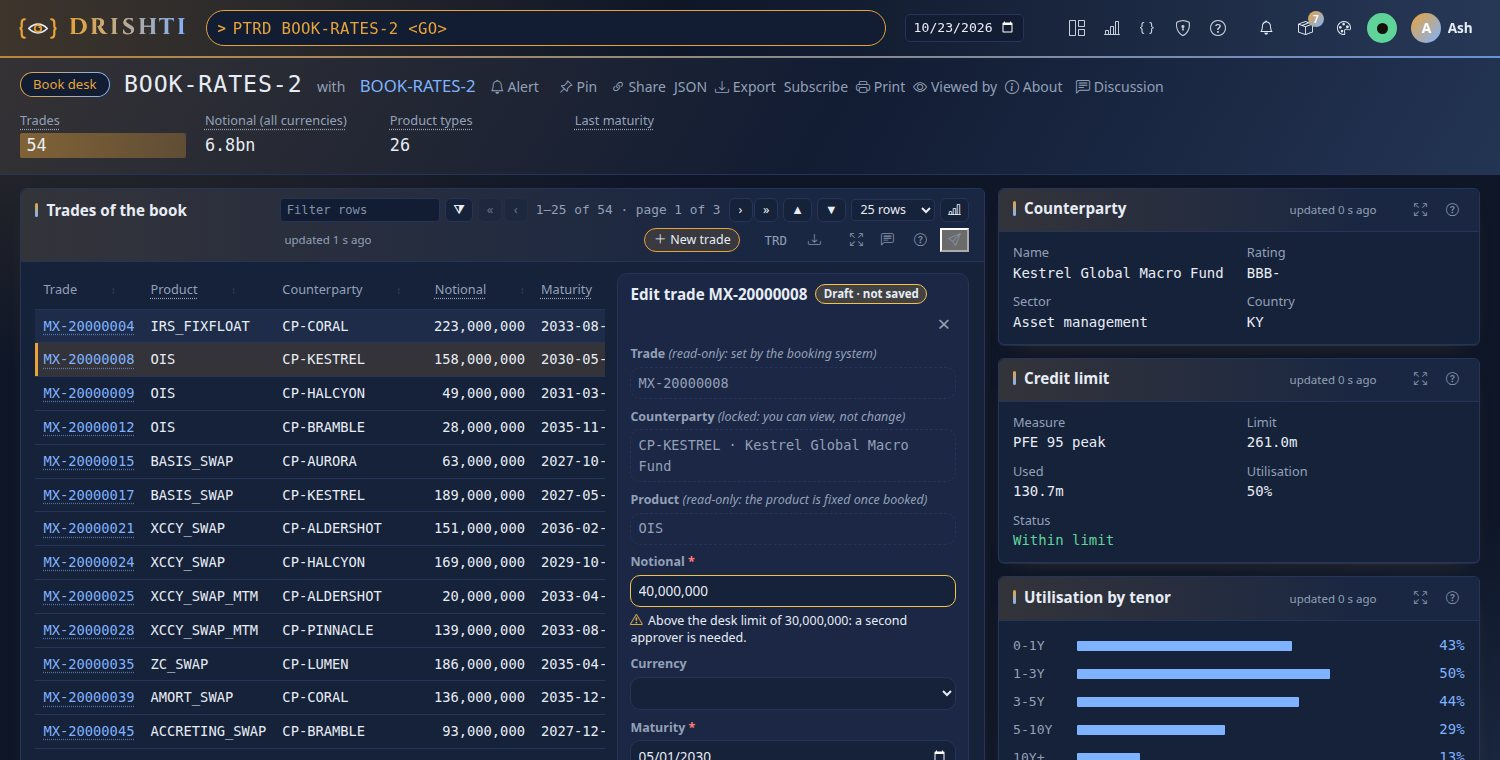
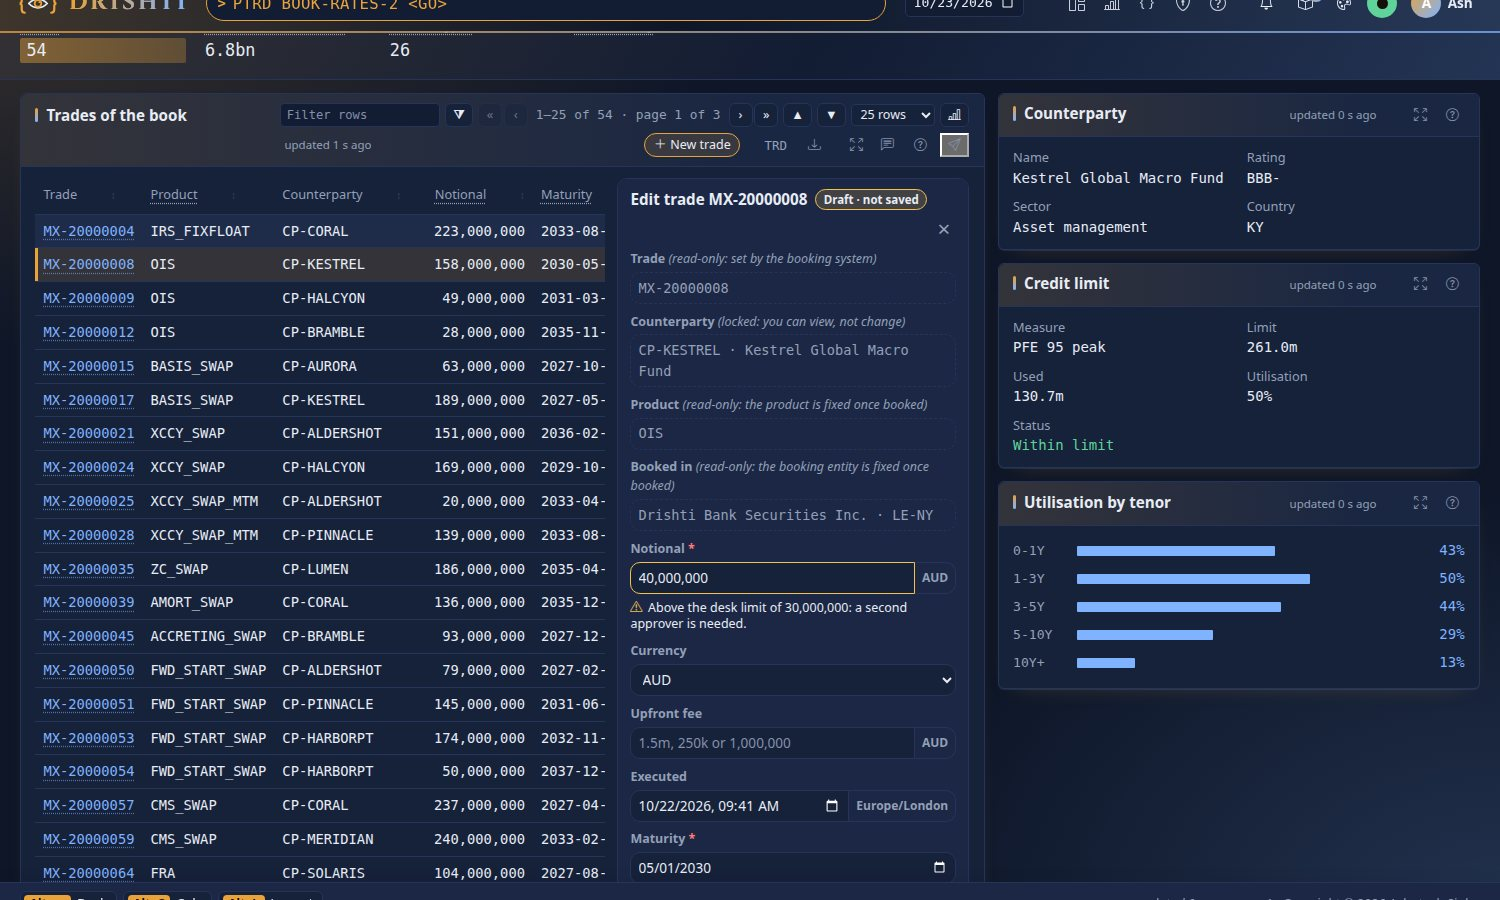
Forms, the richer fields in the browser and the docs: a money value that does not read (lots) leaves the rules undecided as on the server; the book desk's currencies include AUD; the form beside a table sticks below the top bar and scrolls on its own when taller than the screen (static on a phone); 

diff --git a/drishti-console/web/static/css/record-forms.css b/drishti-console/web/static/css/record-forms.css
@@ -19,7 +19,7 @@
 .fm-rows tbody > tr[data-frow] { cursor: pointer; }
 .fm-beside-open .pnl-b { display: grid; grid-template-columns: minmax(0, 1fr) minmax(17rem, 22rem); gap: .75rem; align-items: start; }
 .fm-beside-open .pnl-b > .fm-drafts { grid-column: 1 / -1; }
-.fm-side { position: sticky; top: .5rem; border: 1px solid var(--d-border); border-radius: var(--d-radius, 6px); background: var(--d-surface-2); padding: .6rem .75rem;
+.fm-side { position: sticky; top: 4.5rem; max-height: calc(100vh - 5rem); overflow-y: auto; border: 1px solid var(--d-border); border-radius: var(--d-radius, 6px); background: var(--d-surface-2); padding: .6rem .75rem;
   display: flex; flex-direction: column; gap: .5rem; }
 .fm-head { display: flex; align-items: center; gap: .5rem; flex-wrap: wrap; }
 .fm-head h4 { margin: 0; font-size: .95rem; font-weight: 650; color: var(--d-ink); }
@@ -117,6 +117,7 @@ td .fm-adorn .fm-in { width: auto; flex: 1; }
 .fm-auto { margin: 0; font-size: .72rem; color: var(--d-muted); }
 @media (max-width: 700px) {
   .fm-beside-open .pnl-b { grid-template-columns: minmax(0, 1fr); }
+  .fm-side { position: static; max-height: none; }
   .fm-in, .fm-new, .fm-btn { min-height: 2.5rem; }
   .fm-drawer { width: 100vw; }
   .fm-note { margin-left: 0; flex-basis: 100%; }

diff --git a/drishti-console/web/static/js/form-expr.js b/drishti-console/web/static/js/form-expr.js
@@ -195,7 +195,7 @@
     (form.fields || []).forEach(function (f) {
       var v = values[f.id], blank = empty(v) || (typeof v === 'string' && !v.trim());
       var t = blank ? null : typed(f, v);
-      vals[f.id] = t;
+      vals[f.id] = typeof t === 'number' && isNaN(t) ? null : t;           // a value that does not read: the rules cannot tell, as on the server
       if (!checked[f.id]) { return; }
       if (blank) { if (f.required) { out.push({ field: f.id, message: f.label + ' is required', severity: 'error' }); } return; }
       var why = valueProblem(f, v, t);

diff --git a/tools/docs/shots/designer.py b/tools/docs/shots/designer.py
@@ -522,9 +522,11 @@ def form_beside(c: Ctx):
     c.page.locator("#p-trades tbody tr[data-frow='1'] td").nth(1).click()
     c.page.fill("[data-fm-side] [data-field='notional']", "40,000,000")
     c.page.fill("[data-fm-side] [data-field='comment']", "Client hedge for the Q4 roll")
+    c.page.fill("[data-fm-side] [data-field='executed_at']", "2026-10-22T09:41")
     c.page.evaluate("document.querySelectorAll('#p-trades tr.wire-kids').forEach(n => n.remove());"
-                    "document.querySelector('#p-trades').scrollIntoView({ block: 'start' }); window.scrollBy(0, -70)")
-    c.save("form-beside.jpg", clip={"x": 0, "y": 0, "width": 1500, "height": 760})
+                    "document.querySelector('#p-trades').scrollIntoView({ block: 'start' }); window.scrollBy(0, -70);"
+                    "document.activeElement.blur(); document.querySelector('[data-fm-side]').scrollTop = 0")
+    c.save("form-beside.jpg", clip={"x": 0, "y": 0, "width": 1500, "height": 900})
 
 
 @shot("form-cells.jpg")
@@ -656,6 +658,7 @@ def outline(c: Ctx):
 def grid_mode(c: Ctx):
     c.page.goto(c.base + "/designer/grid?kind=portfolio-trades&id=BOOK-RATES-2")
     c.until("document.querySelector('[data-gd-rev]')")
-    c.page.locator('[data-gd-cell="A4"]').click()
+    kid = c.page.locator("[data-gd-kid]")                 # a panel a click opens, as a cell of its own, when the screen has one
+    (kid.first if kid.count() else c.page.locator('[data-gd-cell="A4"]')).click()
     c.save("grid-mode.jpg")
     c.page.locator("[data-gd-cancel]").click()

diff --git a/drishti-console/tests/test_record_forms_browser.py b/drishti-console/tests/test_record_forms_browser.py
@@ -91,11 +91,12 @@ def test_a_form_beside_the_table_with_words_a_draft_and_resuming_it(stack, brows
     assert pg.evaluate("drishtiForms.state().trades.dirty")
     pg.fill("[data-fm-side] [data-field='comment']", "Client hedge for the Q4 roll")
     assert side.locator(".fm-error").count() == 0 and warn.count() == 1
+    pg.fill("[data-fm-side] [data-field='executed_at']", "2026-10-22T09:41")      # a date and time, in its time zone
     IMG.mkdir(parents=True, exist_ok=True)
     wait(pg, "document.querySelector('#p-trades tr.wire-kids')")
     pg.evaluate("document.querySelectorAll('#p-trades tr.wire-kids').forEach(n => n.remove())")   # the cash flows the click opened: not in the picture
-    pg.evaluate("document.querySelector('#p-trades').scrollIntoView({ block: 'start' }); window.scrollBy(0, -70)")
-    pg.screenshot(path=str(IMG / "form-beside.jpg"), type="jpeg", quality=84, clip={"x": 0, "y": 0, "width": 1500, "height": 760})
+    pg.evaluate("document.querySelector('#p-trades').scrollIntoView({ block: 'start' }); window.scrollBy(0, -70); document.activeElement.blur(); document.querySelector('[data-fm-side]').scrollTop = 0")
+    pg.screenshot(path=str(IMG / "form-beside.jpg"), type="jpeg", quality=84, clip={"x": 0, "y": 0, "width": 1500, "height": 900})
     pg.click("[data-fm-side] .fm-save")
     wait(pg, "document.querySelector('[data-fm-side] .fm-badge-saved')")
     assert pg.locator("[data-fm-drafts]").inner_text().count("draft") >= 1

diff --git a/docs/guides/SUTRA_FORMS_GUIDE.md b/docs/guides/SUTRA_FORMS_GUIDE.md
@@ -47,7 +47,7 @@ panels:
       fields:
         - { id: trade_id, label: Trade, bind: TRADE_ID, readonly: true, reason: "set by the booking system", new: false }
         - { id: counterparty, label: Counterparty, bind: COUNTERPARTY, type: lookup, readonly: true, required: true, options: { ... } }
-        - { id: notional, label: Notional, bind: NOTIONAL, type: number, min: 0, required: true, fmt: amount0 }
+        - { id: notional, label: Notional, bind: NOTIONAL, type: money, currency: currency, min: 0, required: true, fmt: amount0 }
         - { id: maturity_date, label: Maturity, bind: MATURITY_DATE, type: date, min: today, required: true }
         - { id: trade_status, label: Status, bind: TRADE_STATUS, type: enum, options: [PENDING, VALIDATED, AMENDED], editable-by: [middle-office] }
         - { id: comment, label: Comment, bind: COMMENT, type: textarea, max-length: 500, placeholder: Reason for the change }
@@ -60,7 +60,7 @@ panels:
 
 What people see:
 
-- **Typed fields.** A number takes `40,000,000`, `40m` or `1.5bn`; a date opens the date picker; an enum is a list; a lookup is a
+- **Typed fields.** A number or an amount of money takes `40,000,000`, `40m` or `1.5bn`; a date opens the date picker; an enum is a list; a lookup is a
   list of what its source offers; `textarea` is several lines.
 - **Locked fields say why.** `readonly: true` shows the value with "(read-only: set by the booking system)", or "(locked: you can
   view, not change)" when there is no `reason`. A field whose `editable-by` names roles the person does not hold is locked the same
@@ -69,6 +69,40 @@ What people see:
   said and kept with it, for example "Above the desk limit of 30,000,000: a second approver is needed."
 - **Draft · not saved** while there are changes; **Save draft** keeps them; **Discard** throws them away (and the saved draft too).
 - Leaving the page with changes not saved asks first. A panel being edited is not refreshed under the person's hands.
+
+### Money, a date and time, a linked record, a worked-out default
+
+The same form has four fields of the richer kinds (the book desk, `book-desk.v1.sutra.yaml`):
+
+```yaml
+        - id: legal_entity
+          label: Booked in
+          bind: LEGAL_ENTITY
+          type: entity                        # a linked record of another pack's kind
+          readonly: true
+          reason: "the booking entity is fixed once booked"
+          step: who
+          options: { source: { pack: core, kind: legal-entity }, label: NAME }
+        - { id: notional, label: Notional, bind: NOTIONAL, type: money, currency: currency, min: 0, required: true, fmt: amount0 }
+        - { id: currency, label: Currency, bind: CURRENCY, type: enum, options: [USD, EUR, GBP, JPY, CHF, CAD, AUD] }
+        - { id: upfront_fee, label: Upfront fee, bind: UPFRONT_FEE, type: money, currency: currency, min: 0, default: "=notional * 0.001" }
+        - { id: executed_at, label: Executed, bind: EXECUTED_AT, type: datetime, tz: Europe/London }
+```
+
+- **`money`** is an amount and its currency. People type `1.5m`, `250k`, `2bn` or `1,000,000`; it shows grouped (`1,500,000`) once
+  they leave the field. The currency sits beside it: fixed (`currency: USD`) or the one another field holds (`currency: currency`,
+  which changes as people pick a currency). `min` and `max` are numbers. A value that does not read says *Notional is an amount
+  (1,000,000, 1.5m or 250k)*.
+- **`datetime`** is a date and a time (`2026-10-23T14:05`), entered with the browser's date and time picker; the time zone (`tz`,
+  UTC when absent) is shown beside it and with the value (*2026-10-23 14:05 Europe/London*). `min` and `max` are a date and time or
+  `today`.
+- **`entity`** links the record to a record of any pack's kind: a search box over the records of `options.source` (a `where` or a
+  `search` narrows them), read as the viewer may see them. Type part of a name or an id, pick with the arrows and Enter (or a click);
+  the record's **id** is kept and its **label** shown (*Drishti Bank Europe AG · LE-FRA*), with **Open** beside it. A record whose
+  kept value is masked for the viewer is never offered, and a masked label shows the id.
+- **`default`** starts a new record: a value (`default: PENDING`), or an expression written `=...` over the other fields
+  (`=notional * 0.001`), worked out as people type (*Worked out: notional * 0.001 · type to change it*) until they type over it. The
+  server fills it too when a new record leaves the field empty, so a draft saved by a script is the same.
 
 ## 2. Editing in the cells
 
@@ -144,8 +178,11 @@ change to a field they may not edit, is refused; each save and discard is in the
 ## 5. With the Sutra designer
 
 - **Customize › Let people edit**: pick a table, *in a form beside it* or *in its cells* (or *not at all*), tick the columns people
-  may edit, and *start new ones in a guided drawer*; **Set** writes the `form:` (the first column names the record and is read-only;
-  a number format or a name like NOTIONAL makes a number field, a date format or `*_DATE` a date field).
+  may edit, and *start new ones in a guided drawer*; **Set** writes the `form:` (the first column names the record and is read-only).
+  Each column is *as guessed* or what you pick: text, a number, money, a date, a date and time, or a linked record (offered when the
+  packs say the column names one, such as COUNTERPARTY). The guess: a number format or a name like NOTIONAL is a number, money when
+  the table has a CURRENCY column too (in that currency); a date format or `*_DATE` a date; `*_AT` or `*_TIME` a date and time; a
+  column the packs link a linked record.
 - **Describe**: `TRD BOOK-RATES-2 · click a trade → cash flows · edit trades beside · new trade in a drawer` (or `edit trades in the
   cells`) gives the trades the form above, with the lookup and the limit hint.
 
@@ -164,5 +201,6 @@ checks it again when 2.8.0 writes.
 
 `sutra lint` and the editor check a form as `DRS-2058`, in words: an unknown key, a type, a `min` that is not a number for a number
 field, a `step` or `key` that names nothing, a rule that reads a field the form does not have (`rule 'notionl <= 30000000' reads
-'notionl', which is not a field of the form`), a pattern that is not a regular expression. The JSON schema
+'notionl', which is not a field of the form`), a pattern that is not a regular expression, a money field without its currency (or a
+`currency` that is neither a code nor a field), a `tz` that is not a time zone, a `default` expression that reads a missing field. The JSON schema
 (`/api/v1/rachana/schema`) describes `form:` for editors.

diff --git a/docs/guides/RACHANA_REFERENCE.md b/docs/guides/RACHANA_REFERENCE.md
@@ -1974,10 +1974,13 @@ A field:
 |---|---|---|
 | `id` | lower_snake (required) | read by rules and hints |
 | `label` | text | the field's words (the id when absent) |
-| `type` | `text` (default), `number`, `date`, `enum`, `bool`, `textarea`, `lookup` | a number takes `40,000,000`, `40m`, `1.5bn` |
+| `type` | `text` (default), `number`, `date`, `enum`, `bool`, `textarea`, `lookup`, `money`, `datetime`, `entity` | a number or money takes `40,000,000`, `40m`, `250k`, `1.5bn`; `datetime` is `2026-10-23T14:05` |
 | `bind` | a record field (`COUNTERPARTY`) | what it edits, and in `cells` the column whose `bind` names it (the id when absent) |
-| `required`, `min`, `max`, `pattern`, `max-length` | | `min`/`max` a number, or for a date a date or `today`; `pattern` a regular expression the whole text matches |
-| `options` | list, or a mapping for `lookup` | `enum`: values or `{value, label}`; `lookup`: `{source: {pack, kind, where \| search, limit}, value, label, carry}`, the choices read as the viewer may see them, `carry` the values hints read as `<field>.<VALUE>` |
+| `required`, `min`, `max`, `pattern`, `max-length` | | `min`/`max` a number (number, money), a date or `today` (date), a date and time or `today` (datetime); `pattern` a regular expression the whole text matches |
+| `currency` | a code (`USD`) or a field id | `money` only (required): the currency, fixed, or the one another field of the form holds (`currency: currency`); shown beside the amount |
+| `tz` | a time zone (`Europe/London`) | `datetime` only: the zone it is entered in and shown with (UTC when absent) |
+| `default` | a value, or `=<expression>` | what a new record starts with; `=notional * 0.001` is worked out from the other fields as people type, until they type over it, and by the server when a new record leaves it empty |
+| `options` | list, or a mapping for `lookup` and `entity` | `enum`: values or `{value, label}`; `lookup`: `{source: {pack, kind, where \| search, limit}, value, label, carry}`, the choices read as the viewer may see them, `carry` the values hints read as `<field>.<VALUE>`; `entity`: `{source: {pack, kind, where \| search, limit}, label, carry}`, a linked record of any pack's kind picked by search: its id is kept (or the field `value` names) and its `label` shown, a masked value never offered |
 | `editable-by` | list of roles | only these roles may change it; anyone else sees it locked ("locked: you can view, not change") |
 | `readonly`, `reason` | | shown, never changed once the record exists ("read-only: <reason>"); the New drawer may set it |
 | `step`, `placeholder`, `fmt`, `new` | | the drawer step, a hint in the empty input, the display format, `new: false` to leave it out of New |
@@ -1985,7 +1988,9 @@ A field:
 A field masked for the viewer is never shown as an input nor sent: the page says *Hidden for you*. Rules and hints are written in a small
 language the browser and the server share: the fields by id, a lookup's carried values, numbers, `'text'`, `true`, `false`, `null`,
 `today`; `+ - * /`; `== != < <= > >=`; `and or not`; brackets; `empty(x) len(x) abs(x) min(a, b) max(a, b)`. An empty value makes a sum or
-a comparison empty, and a rule that comes out empty holds. Problems are `DRS-2058`.
+a comparison empty, and a rule that comes out empty holds; so does a value that does not read (`lots` in a money field). Problems are
+`DRS-2058`: also a money field without its `currency`, a `currency` naming no field, a `tz` that is not a time zone, a `default` reading a
+field the form does not have.
 
 ## Pack search form (`form:` in `pack.yaml`)
 
